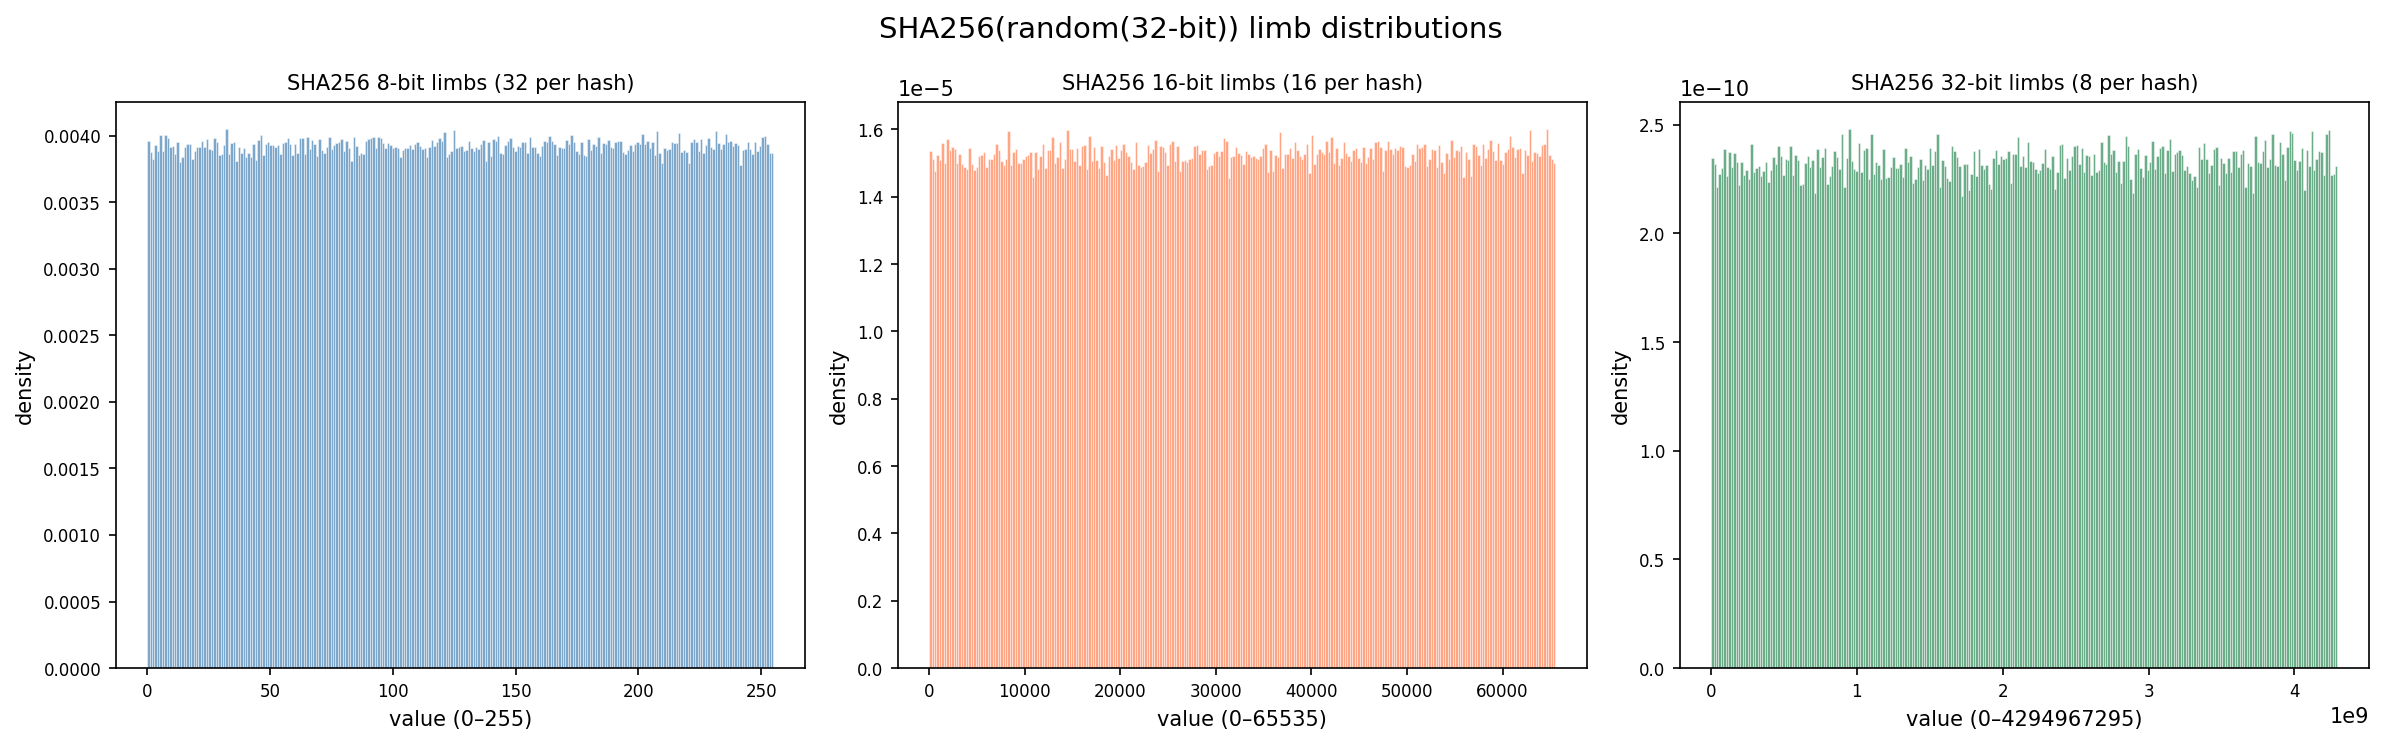
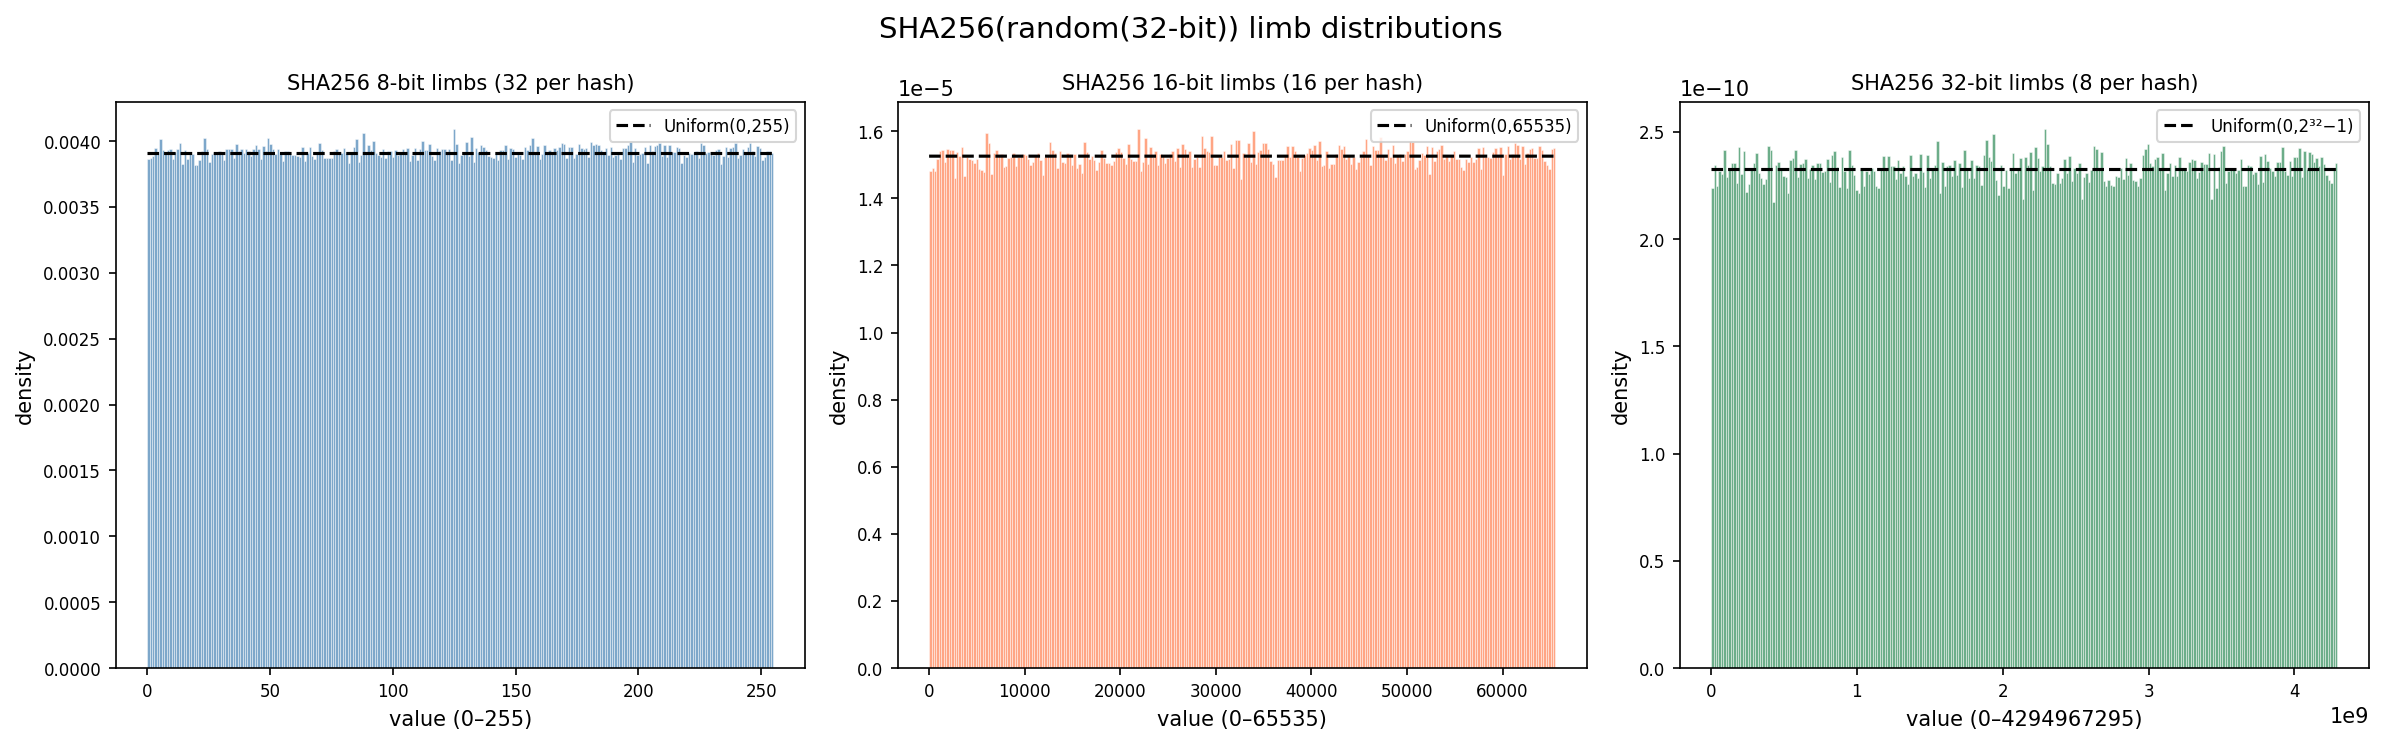
Add theoretical PDF overlay to SHA256 limb distribution graph

diff --git a/random_dist.py b/random_dist.py
@@ -305,21 +305,30 @@ for val in rand32:
 fig2, axs2 = plt.subplots(1, 3, figsize=(16, 5))
 
 axs2[0].hist(limbs_8, bins=256, density=True, alpha=0.7, edgecolor="white", linewidth=0.3, color="steelblue")
+x = np.arange(256)
+axs2[0].plot(x, np.full(256, 1/256), "k--", lw=1.5, label="Uniform(0,255)")
 axs2[0].set_title("SHA256 8-bit limbs (32 per hash)", fontsize=10)
 axs2[0].set_xlabel("value (0–255)")
 axs2[0].set_ylabel("density")
+axs2[0].legend(fontsize=8)
 axs2[0].tick_params(labelsize=8)
 
 axs2[1].hist(limbs_16, bins=256, density=True, alpha=0.7, edgecolor="white", linewidth=0.3, color="coral")
+x = np.arange(65536)
+axs2[1].plot(x, np.full(65536, 1/65536), "k--", lw=1.5, label="Uniform(0,65535)")
 axs2[1].set_title("SHA256 16-bit limbs (16 per hash)", fontsize=10)
 axs2[1].set_xlabel("value (0–65535)")
 axs2[1].set_ylabel("density")
+axs2[1].legend(fontsize=8)
 axs2[1].tick_params(labelsize=8)
 
 axs2[2].hist(limbs_32, bins=256, density=True, alpha=0.7, edgecolor="white", linewidth=0.3, color="seagreen")
+x = np.linspace(0, 4294967295, 200)
+axs2[2].plot(x, np.full(200, 1/4294967296), "k--", lw=1.5, label="Uniform(0,2³²−1)")
 axs2[2].set_title("SHA256 32-bit limbs (8 per hash)", fontsize=10)
 axs2[2].set_xlabel("value (0–4294967295)")
 axs2[2].set_ylabel("density")
+axs2[2].legend(fontsize=8)
 axs2[2].tick_params(labelsize=8)
 
 plt.suptitle("SHA256(random(32-bit)) limb distributions", fontsize=14)
